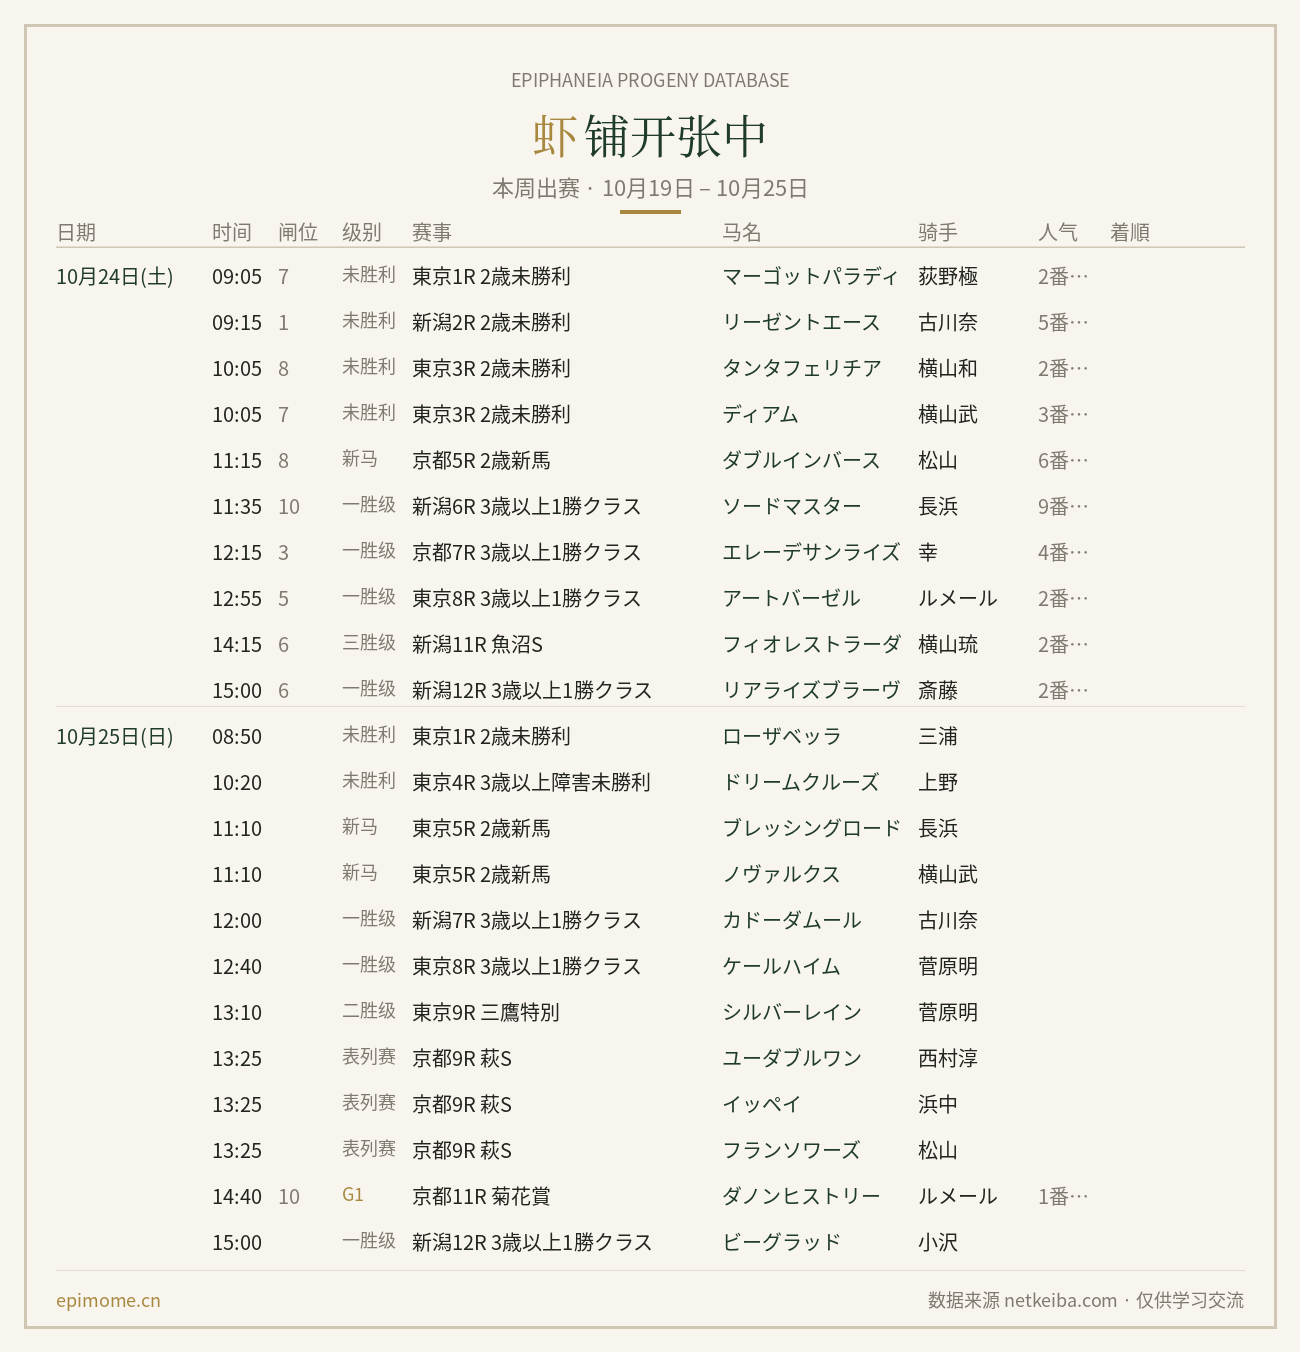
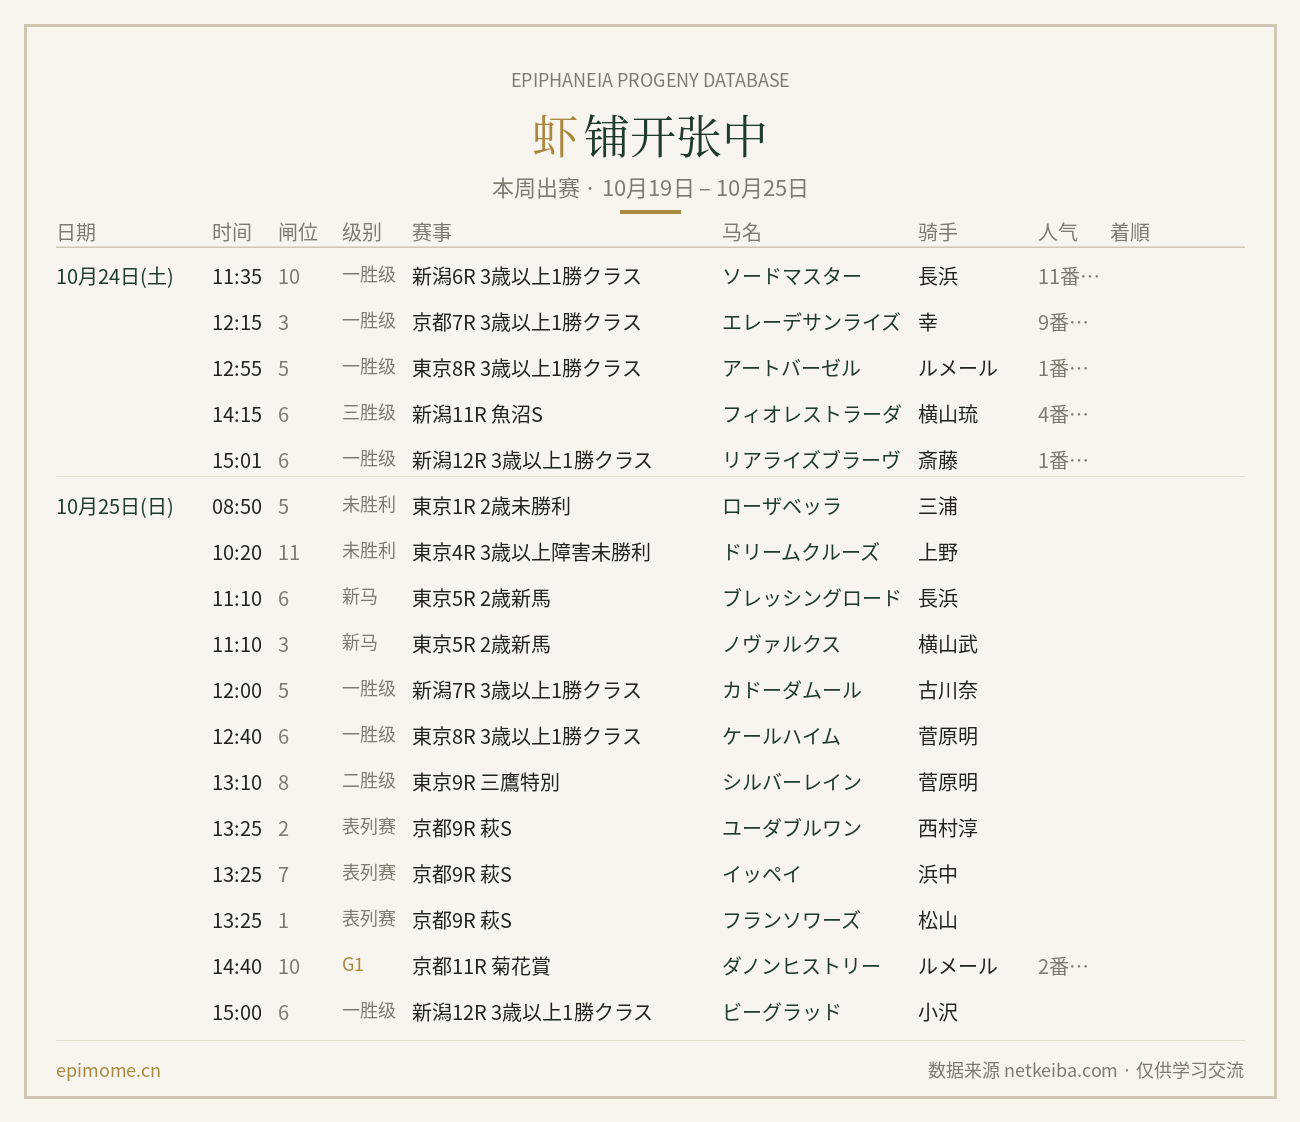
auto: 更新本周出马

diff --git a/thisweek.js b/thisweek.js
@@ -1,2 +1,2 @@
 // 本文件由 scrape_and_build.py 自动生成
-const 本周出马 = [{"date": "10月22日", "time": "12:40", "race": "笠松7R C3組", "cls": "", "status": "結果確定", "name": "マーゴットカーラ", "id": "2022100492", "jockey": "藤原幹生", "fav": "", "order": "1", "num": "2", "sire": "エピファネイア", "region": "地方"}, {"date": "10月23日", "time": "13:10", "race": "笠松8R C11組", "cls": "", "status": "結果確定", "name": "レジオンポレール", "id": "2023103786", "jockey": "渡辺竜也", "fav": "", "order": "3", "num": "11", "sire": "エピファネイア", "region": "地方"}, {"date": "10月23日", "time": "14:25", "race": "浦和7R C1五六", "cls": "", "status": "結果確定", "name": "パドメ", "id": "2022107339", "jockey": "秋元耕成", "fav": "", "order": "12", "num": "1", "sire": "エピファネイア", "region": "地方"}, {"date": "10月23日", "time": "16:20", "race": "園田6R C3", "cls": "", "status": "結果確定", "name": "キャスパインパクト", "id": "2022100963", "jockey": "永井孝典", "fav": "", "order": "8", "num": "5", "sire": "エピファネイア", "region": "地方"}, {"date": "10月23日", "time": "17:30", "race": "園田8R C2二", "cls": "", "status": "結果確定", "name": "ヤマトフェイス", "id": "2021105013", "jockey": "田野豊三", "fav": "", "order": "2", "num": "9", "sire": "エピファネイア", "region": "地方"}, {"date": "10月24日(土)", "time": "09:05", "race": "東京1R 2歳未勝利", "cls": "未胜利", "status": "出馬表", "name": "マーゴットパラディ", "id": "2024101971", "jockey": "荻野極", "fav": "2番人気", "order": "", "num": "7", "sire": "エフフォーリア", "region": "中央"}, {"date": "10月24日(土)", "time": "09:15", "race": "新潟2R 2歳未勝利", "cls": "未胜利", "status": "出馬表", "name": "リーゼントエース", "id": "2024104845", "jockey": "古川奈", "fav": "5番人気", "order": "", "num": "1", "sire": "エフフォーリア", "region": "中央"}, {"date": "10月24日(土)", "time": "10:05", "race": "東京3R 2歳未勝利", "cls": "未胜利", "status": "出馬表", "name": "タンタフェリチア", "id": "2024101733", "jockey": "横山和", "fav": "2番人気", "order": "", "num": "8", "sire": "エフフォーリア", "region": "中央"}, {"date": "10月24日(土)", "time": "10:05", "race": "東京3R 2歳未勝利", "cls": "未胜利", "status": "出馬表", "name": "ディアム", "id": "2024102901", "jockey": "横山武", "fav": "3番人気", "order": "", "num": "7", "sire": "エフフォーリア", "region": "中央"}, {"date": "10月24日(土)", "time": "11:15", "race": "京都5R 2歳新馬", "cls": "新马", "status": "出馬表", "name": "ダブルインバース", "id": "2024100462", "jockey": "松山", "fav": "6番人気", "order": "", "num": "8", "sire": "エピファネイア", "region": "中央"}, {"date": "10月24日(土)", "time": "11:35", "race": "新潟6R 3歳以上1勝クラス", "cls": "一胜级", "status": "出馬表", "name": "ソードマスター", "id": "2022105415", "jockey": "長浜", "fav": "9番人気", "order": "", "num": "10", "sire": "エピファネイア", "region": "中央"}, {"date": "10月24日(土)", "time": "12:15", "race": "京都7R 3歳以上1勝クラス", "cls": "一胜级", "status": "出馬表", "name": "エレーデサンライズ", "id": "2023100912", "jockey": "幸", "fav": "4番人気", "order": "", "num": "3", "sire": "エピファネイア", "region": "中央"}, {"date": "10月24日(土)", "time": "12:55", "race": "東京8R 3歳以上1勝クラス", "cls": "一胜级", "status": "出馬表", "name": "アートバーゼル", "id": "2023106964", "jockey": "ルメール", "fav": "2番人気", "order": "", "num": "5", "sire": "エピファネイア", "region": "中央"}, {"date": "10月24日(土)", "time": "14:15", "race": "新潟11R 魚沼S", "cls": "三胜级", "status": "出馬表", "name": "フィオレストラーダ", "id": "2022100626", "jockey": "横山琉", "fav": "2番人気", "order": "", "num": "6", "sire": "エピファネイア", "region": "中央"}, {"date": "10月24日(土)", "time": "15:00", "race": "新潟12R 3歳以上1勝クラス", "cls": "一胜级", "status": "出馬表", "name": "リアライズブラーヴ", "id": "2023103678", "jockey": "斎藤", "fav": "2番人気", "order": "", "num": "6", "sire": "エピファネイア", "region": "中央"}, {"date": "10月24日", "time": "15:40", "race": "高知4R C3ー9", "cls": "", "status": "出馬表", "name": "エンドレスバンカー", "id": "2022102860", "jockey": "木村直輝", "fav": "", "order": "", "num": "8", "sire": "エピファネイア", "region": "地方"}, {"date": "10月24日", "time": "15:40", "race": "高知4R C3ー9", "cls": "", "status": "出馬表", "name": "ケイベエ", "id": "2023102803", "jockey": "上田将司", "fav": "", "order": "", "num": "12", "sire": "エピファネイア", "region": "地方"}, {"date": "10月25日(日)", "time": "08:50", "race": "東京1R 2歳未勝利", "cls": "未胜利", "status": "出馬表", "name": "ローザベッラ", "id": "2024101670", "jockey": "三浦", "fav": "", "order": "", "num": "", "sire": "エフフォーリア", "region": "中央"}, {"date": "10月25日(日)", "time": "10:20", "race": "東京4R 3歳以上障害未勝利", "cls": "未胜利", "status": "出馬表", "name": "ドリームクルーズ", "id": "2021104899", "jockey": "上野", "fav": "", "order": "", "num": "", "sire": "エピファネイア", "region": "中央"}, {"date": "10月25日(日)", "time": "11:10", "race": "東京5R 2歳新馬", "cls": "新马", "status": "出馬表", "name": "ブレッシングロード", "id": "2024106026", "jockey": "長浜", "fav": "", "order": "", "num": "", "sire": "エピファネイア", "region": "中央"}, {"date": "10月25日(日)", "time": "11:10", "race": "東京5R 2歳新馬", "cls": "新马", "status": "出馬表", "name": "ノヴァルクス", "id": "2024106557", "jockey": "横山武", "fav": "", "order": "", "num": "", "sire": "エフフォーリア", "region": "中央"}, {"date": "10月25日(日)", "time": "12:00", "race": "新潟7R 3歳以上1勝クラス", "cls": "一胜级", "status": "出馬表", "name": "カドーダムール", "id": "2023107291", "jockey": "古川奈", "fav": "", "order": "", "num": "", "sire": "エピファネイア", "region": "中央"}, {"date": "10月25日(日)", "time": "12:40", "race": "東京8R 3歳以上1勝クラス", "cls": "一胜级", "status": "出馬表", "name": "ケールハイム", "id": "2023107138", "jockey": "菅原明", "fav": "", "order": "", "num": "", "sire": "エピファネイア", "region": "中央"}, {"date": "10月25日(日)", "time": "13:10", "race": "東京9R 三鷹特別", "cls": "二胜级", "status": "出馬表", "name": "シルバーレイン", "id": "2022104942", "jockey": "菅原明", "fav": "", "order": "", "num": "", "sire": "エピファネイア", "region": "中央"}, {"date": "10月25日(日)", "time": "13:25", "race": "京都9R 萩S", "cls": "表列赛", "status": "出馬表", "name": "ユーダブルワン", "id": "2024106002", "jockey": "西村淳", "fav": "", "order": "", "num": "", "sire": "エピファネイア", "region": "中央"}, {"date": "10月25日(日)", "time": "13:25", "race": "京都9R 萩S", "cls": "表列赛", "status": "出馬表", "name": "イッペイ", "id": "2024104442", "jockey": "浜中", "fav": "", "order": "", "num": "", "sire": "エフフォーリア", "region": "中央"}, {"date": "10月25日(日)", "time": "13:25", "race": "京都9R 萩S", "cls": "表列赛", "status": "出馬表", "name": "フランソワーズ", "id": "2024105037", "jockey": "松山", "fav": "", "order": "", "num": "", "sire": "エフフォーリア", "region": "中央"}, {"date": "10月25日(日)", "time": "14:40", "race": "京都11R 菊花賞", "cls": "G1", "status": "出馬表", "name": "ダノンヒストリー", "id": "2023107005", "jockey": "ルメール", "fav": "1番人気", "order": "", "num": "10", "sire": "エピファネイア", "region": "中央"}, {"date": "10月25日(日)", "time": "15:00", "race": "新潟12R 3歳以上1勝クラス", "cls": "一胜级", "status": "出馬表", "name": "ビーグラッド", "id": "2021100683", "jockey": "小沢", "fav": "", "order": "", "num": "", "sire": "エピファネイア", "region": "中央"}];
+const 本周出马 = [{"date": "10月23日", "time": "13:10", "race": "笠松8R C11組", "cls": "", "status": "結果確定", "name": "レジオンポレール", "id": "2023103786", "jockey": "渡辺竜也", "fav": "", "order": "3", "num": "11", "sire": "エピファネイア", "region": "地方"}, {"date": "10月23日", "time": "14:25", "race": "浦和7R C1五六", "cls": "", "status": "結果確定", "name": "パドメ", "id": "2022107339", "jockey": "秋元耕成", "fav": "", "order": "12", "num": "1", "sire": "エピファネイア", "region": "地方"}, {"date": "10月23日", "time": "16:20", "race": "園田6R C3", "cls": "", "status": "結果確定", "name": "キャスパインパクト", "id": "2022100963", "jockey": "永井孝典", "fav": "", "order": "8", "num": "5", "sire": "エピファネイア", "region": "地方"}, {"date": "10月23日", "time": "17:30", "race": "園田8R C2二", "cls": "", "status": "結果確定", "name": "ヤマトフェイス", "id": "2021105013", "jockey": "田野豊三", "fav": "", "order": "2", "num": "9", "sire": "エピファネイア", "region": "地方"}, {"date": "10月24日(土)", "time": "11:35", "race": "新潟6R 3歳以上1勝クラス", "cls": "一胜级", "status": "出馬表", "name": "ソードマスター", "id": "2022105415", "jockey": "長浜", "fav": "11番人気", "order": "", "num": "10", "sire": "エピファネイア", "region": "中央"}, {"date": "10月24日(土)", "time": "12:15", "race": "京都7R 3歳以上1勝クラス", "cls": "一胜级", "status": "出馬表", "name": "エレーデサンライズ", "id": "2023100912", "jockey": "幸", "fav": "9番人気", "order": "", "num": "3", "sire": "エピファネイア", "region": "中央"}, {"date": "10月24日(土)", "time": "12:55", "race": "東京8R 3歳以上1勝クラス", "cls": "一胜级", "status": "出馬表", "name": "アートバーゼル", "id": "2023106964", "jockey": "ルメール", "fav": "1番人気", "order": "", "num": "5", "sire": "エピファネイア", "region": "中央"}, {"date": "10月24日(土)", "time": "14:15", "race": "新潟11R 魚沼S", "cls": "三胜级", "status": "出馬表", "name": "フィオレストラーダ", "id": "2022100626", "jockey": "横山琉", "fav": "4番人気", "order": "", "num": "6", "sire": "エピファネイア", "region": "中央"}, {"date": "10月24日(土)", "time": "15:01", "race": "新潟12R 3歳以上1勝クラス", "cls": "一胜级", "status": "出馬表", "name": "リアライズブラーヴ", "id": "2023103678", "jockey": "斎藤", "fav": "1番人気", "order": "", "num": "6", "sire": "エピファネイア", "region": "中央"}, {"date": "10月24日", "time": "15:40", "race": "高知4R C3ー9", "cls": "", "status": "出馬表", "name": "エンドレスバンカー", "id": "2022102860", "jockey": "木村直輝", "fav": "11番人気", "order": "", "num": "8", "sire": "エピファネイア", "region": "地方"}, {"date": "10月24日", "time": "15:40", "race": "高知4R C3ー9", "cls": "", "status": "出馬表", "name": "ケイベエ", "id": "2023102803", "jockey": "上田将司", "fav": "12番人気", "order": "", "num": "12", "sire": "エピファネイア", "region": "地方"}, {"date": "10月25日(日)", "time": "08:50", "race": "東京1R 2歳未勝利", "cls": "未胜利", "status": "出馬表", "name": "ローザベッラ", "id": "2024101670", "jockey": "三浦", "fav": "", "order": "", "num": "5", "sire": "エフフォーリア", "region": "中央"}, {"date": "10月25日(日)", "time": "10:20", "race": "東京4R 3歳以上障害未勝利", "cls": "未胜利", "status": "出馬表", "name": "ドリームクルーズ", "id": "2021104899", "jockey": "上野", "fav": "", "order": "", "num": "11", "sire": "エピファネイア", "region": "中央"}, {"date": "10月25日(日)", "time": "11:10", "race": "東京5R 2歳新馬", "cls": "新马", "status": "出馬表", "name": "ブレッシングロード", "id": "2024106026", "jockey": "長浜", "fav": "", "order": "", "num": "6", "sire": "エピファネイア", "region": "中央"}, {"date": "10月25日(日)", "time": "11:10", "race": "東京5R 2歳新馬", "cls": "新马", "status": "出馬表", "name": "ノヴァルクス", "id": "2024106557", "jockey": "横山武", "fav": "", "order": "", "num": "3", "sire": "エフフォーリア", "region": "中央"}, {"date": "10月25日", "time": "11:15", "race": "盛岡2R C2十一組", "cls": "", "status": "出馬表", "name": "グロー", "id": "2019106683", "jockey": "山本聡紀", "fav": "", "order": "", "num": "1", "sire": "エピファネイア", "region": "地方"}, {"date": "10月25日(日)", "time": "12:00", "race": "新潟7R 3歳以上1勝クラス", "cls": "一胜级", "status": "出馬表", "name": "カドーダムール", "id": "2023107291", "jockey": "古川奈", "fav": "", "order": "", "num": "5", "sire": "エピファネイア", "region": "中央"}, {"date": "10月25日(日)", "time": "12:40", "race": "東京8R 3歳以上1勝クラス", "cls": "一胜级", "status": "出馬表", "name": "ケールハイム", "id": "2023107138", "jockey": "菅原明", "fav": "", "order": "", "num": "6", "sire": "エピファネイア", "region": "中央"}, {"date": "10月25日(日)", "time": "13:10", "race": "東京9R 三鷹特別", "cls": "二胜级", "status": "出馬表", "name": "シルバーレイン", "id": "2022104942", "jockey": "菅原明", "fav": "", "order": "", "num": "8", "sire": "エピファネイア", "region": "中央"}, {"date": "10月25日(日)", "time": "13:25", "race": "京都9R 萩S", "cls": "表列赛", "status": "出馬表", "name": "ユーダブルワン", "id": "2024106002", "jockey": "西村淳", "fav": "", "order": "", "num": "2", "sire": "エピファネイア", "region": "中央"}, {"date": "10月25日(日)", "time": "13:25", "race": "京都9R 萩S", "cls": "表列赛", "status": "出馬表", "name": "イッペイ", "id": "2024104442", "jockey": "浜中", "fav": "", "order": "", "num": "7", "sire": "エフフォーリア", "region": "中央"}, {"date": "10月25日(日)", "time": "13:25", "race": "京都9R 萩S", "cls": "表列赛", "status": "出馬表", "name": "フランソワーズ", "id": "2024105037", "jockey": "松山", "fav": "", "order": "", "num": "1", "sire": "エフフォーリア", "region": "中央"}, {"date": "10月25日(日)", "time": "14:40", "race": "京都11R 菊花賞", "cls": "G1", "status": "出馬表", "name": "ダノンヒストリー", "id": "2023107005", "jockey": "ルメール", "fav": "2番人気", "order": "", "num": "10", "sire": "エピファネイア", "region": "中央"}, {"date": "10月25日(日)", "time": "15:00", "race": "新潟12R 3歳以上1勝クラス", "cls": "一胜级", "status": "出馬表", "name": "ビーグラッド", "id": "2021100683", "jockey": "小沢", "fav": "", "order": "", "num": "6", "sire": "エピファネイア", "region": "中央"}, {"date": "10月25日", "time": "17:35", "race": "高知7R C3ー13", "cls": "", "status": "出馬表", "name": "トーセンブレンダ", "id": "2021104712", "jockey": "塚本直之", "fav": "", "order": "", "num": "6", "sire": "エピファネイア", "region": "地方"}];

diff --git a/updates.js b/updates.js
@@ -1,3 +1,3 @@
 // 数据更新由脚本自动维护；功能更新请手动编辑
 const 功能更新 = [];
-const 数据更新 = [{"date": "2026-10-23", "text": "更新产驹数据（1454匹）"}, {"date": "2026-10-23", "text": "更新本周出赛（29匹）"}, {"date": "2026-10-22", "text": "更新本周出赛（28匹）"}, {"date": "2026-10-22", "text": "更新本周出赛（6匹）"}, {"date": "2026-10-22", "text": "更新产驹数据（1454匹）"}, {"date": "2026-10-22", "text": "更新本周出赛（39匹）"}, {"date": "2026-10-21", "text": "更新产驹数据（1454匹）"}, {"date": "2026-10-20", "text": "更新产驹数据（1454匹）"}];
+const 数据更新 = [{"date": "2026-10-24", "text": "更新本周出赛（25匹）"}, {"date": "2026-10-23", "text": "更新产驹数据（1454匹）"}, {"date": "2026-10-23", "text": "更新本周出赛（29匹）"}, {"date": "2026-10-22", "text": "更新本周出赛（28匹）"}, {"date": "2026-10-22", "text": "更新本周出赛（6匹）"}, {"date": "2026-10-22", "text": "更新产驹数据（1454匹）"}, {"date": "2026-10-22", "text": "更新本周出赛（39匹）"}, {"date": "2026-10-21", "text": "更新产驹数据（1454匹）"}, {"date": "2026-10-20", "text": "更新产驹数据（1454匹）"}];

diff --git a/index.html b/index.html
@@ -633,14 +633,14 @@
     </div>
   </div>
 
-<script src="data.js?v=2026102310"></script>
-<script src="updates.js?v=2026102310"></script>
-<script src="thisweek.js?v=2026102310"></script>
-<script src="corrections.js?v=2026102310"></script>
-<script src="sire-info.js?v=2026102310"></script>
-<script src="news.js?v=2026102310"></script>
-<script src="videos.js?v=2026102310"></script>
-<script src="stats.js?v=2026102310"></script>
+<script src="data.js?v=2026102403"></script>
+<script src="updates.js?v=2026102403"></script>
+<script src="thisweek.js?v=2026102403"></script>
+<script src="corrections.js?v=2026102403"></script>
+<script src="sire-info.js?v=2026102403"></script>
+<script src="news.js?v=2026102403"></script>
+<script src="videos.js?v=2026102403"></script>
+<script src="stats.js?v=2026102403"></script>
 <script>
   const data = 产驹数据;
   const PER_PAGE = 20;
